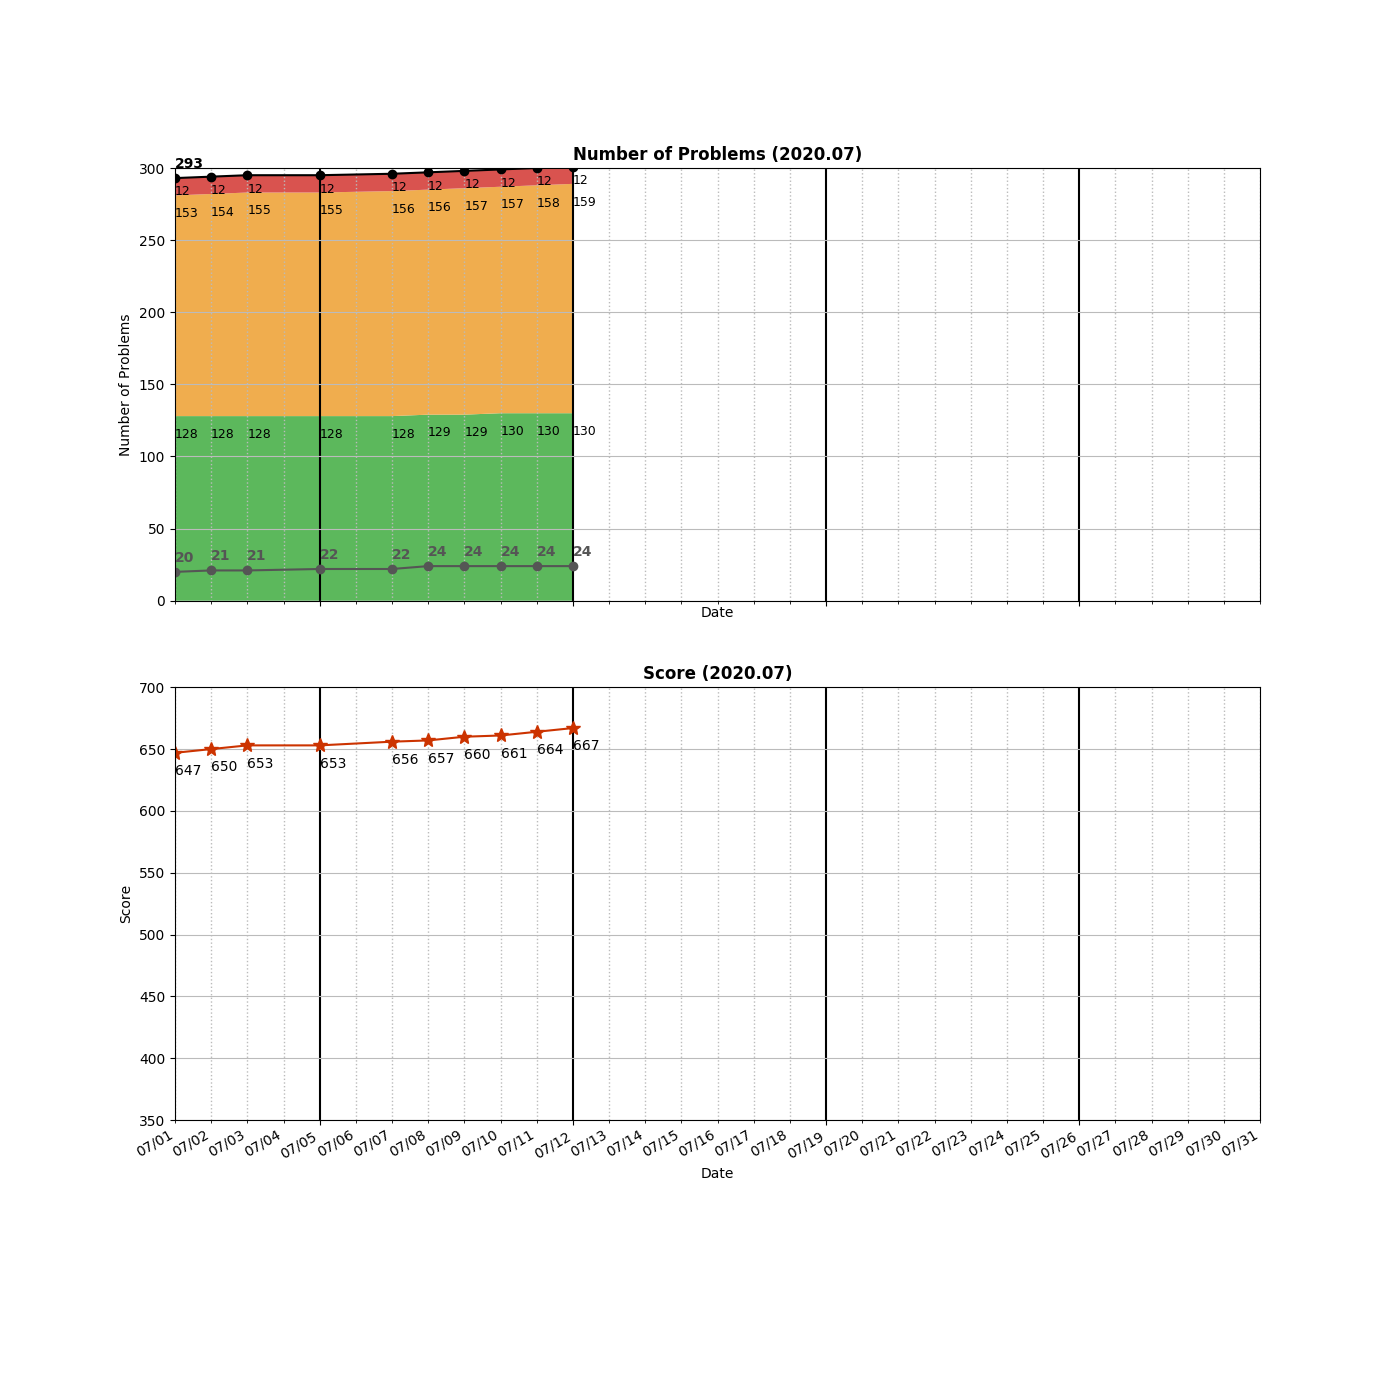
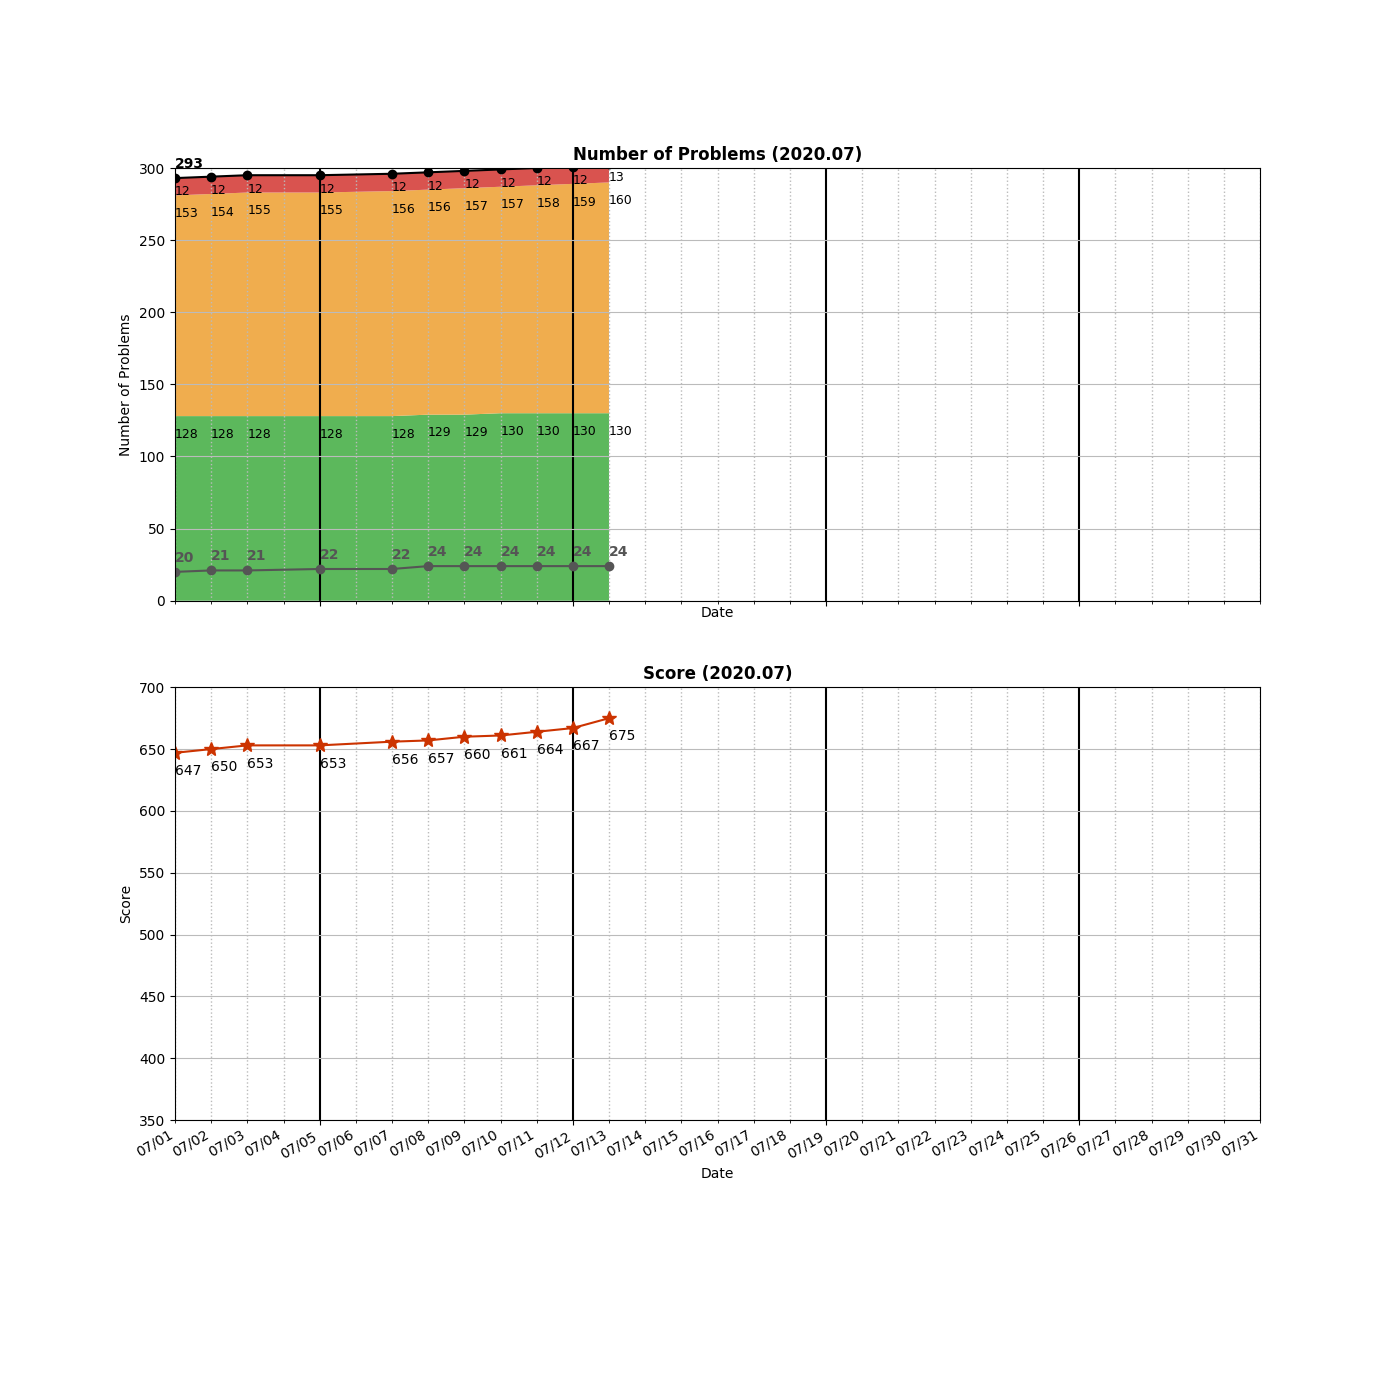
Added _0218_TheSkylineProblem.py

Changed region(s): [[0.3993, 0.1229, 0.4607, 0.43]]

diff --git a/algo/hard/_0218_TheSkylineProblem.py b/algo/hard/_0218_TheSkylineProblem.py
@@ -1,0 +1,126 @@
+import functools 
+class Solution:
+        
+    # Reference:    
+    # https://www.youtube.com/watch?v=GSBLe8cKu0s
+
+    # Cases: 
+    # [[1,3,3],[2,4,4],[5,8,2],[6,7,4],[8,9,4]]  
+    # [[6,7,2],[7,8,3]]
+    # [[0,2,3],[2,5,3]]  //failed
+
+    # Define comparator, calculate the max and pre-max [10%]
+    def getSkyline(self, buildings: List[List[int]]) -> List[List[int]]:
+        print("Mine")
+        
+        if not buildings:
+            return []
+        
+        points = []
+        ans = []
+        
+        # Loop the buildings and create the point list (double of buildings)
+        for b in buildings:
+            point = [b[0], b[2], 1] #start
+            points.append(point)
+            point = [b[1], b[2], 0] #end
+            points.append(point)
+        
+        # Comparator-1 (ok) 
+        def sortedBy1(a, b):                
+            if a[0] != b[0]:          #different x
+                return a[0] - b[0]    #asc 
+            if a[2] == 1 and b[2] == 1:   #both start
+                return b[1] - a[1]        #dsc
+            if a[2] == 0 and b[2] == 0:       #both end
+                return a[1] - b[1]            #asc
+            if b[2] == 1:                         #start and end
+                return 1                          #"end" goes first
+            else:
+                return -1
+        
+        # Comparator-2 (ok) 
+        def sortedBy2(a, b):
+            if a[0] != b[0]:
+                return a[0] - b[0]
+            else:
+                p, q = 0, 0
+                if a[2] == 1:
+                    p = -a[1] 
+                else:
+                    p = a[1]
+        
+                if b[2] == 1:
+                    q = -b[1]
+                else:
+                    q = b[1]
+                return p - q
+        
+        # We need to use the functools (in Python3) to define a full comparator (not just lambda)
+        cmp = functools.cmp_to_key(sortedBy1)
+        points.sort(key = cmp)
+        print("Points:", points)
+        print()
+        
+        # Method-1: Use an queue to store the count of max (ok)
+        # Queue stores the mapping between 
+        queue = {}
+        queue[0] = 1 #put a dummy node [0, 1] meaning 1 height=0 inside
+        prevMax = 0 
+        
+        # Loop the points 
+        # If it is start point, if y is in queue, add by 1, 
+        #                       if y is not in queue, set it to 1
+        # If it is end point, if there is more than 1 y, deduct by 1
+        #                     if only 1 y, remove it (impossible to have no y since it's an end point)
+        
+        for p in points:
+            x, y = p[0], p[1]
+            
+            if p[2] == 1: #start
+                if y in queue:
+                    queue[y] += 1
+                else:
+                    queue[y] = 1
+                    
+            else:         #end 
+                if queue[y] > 1:
+                    queue[y] -= 1
+                else:
+                    del queue[y]
+ 
+            #If the current max differs from the prev max, then add the point into ans
+            currMax = max(queue.keys())  # O(n)
+            if prevMax != currMax:
+                ans.append([x, currMax])
+                prevMax = currMax
+            
+        # Method-2: Use an array to store the max (wrong)
+#         for p in points:
+#             print(p, maxHeights)
+#             if p[2] == 1:  #start
+                
+#                 location = len(maxHeights)
+#                 for i in range(len(maxHeights)):
+#                     if p[1] < maxHeights[i]:
+#                         location = i
+#                         break
+#                 if p[1] not in maxHeights:
+#                     maxHeights.insert(location, p[1])
+                    
+#                 maxHeight = maxHeights[-1]
+#                 if p[1] == maxHeight:
+#                     ans.append([p[0], p[1]])
+#             else:
+#                 if p[1] in maxHeights:
+#                     maxHeights.remove(p[1])
+                    
+#                 maxHeight = maxHeights[-1] 
+#                 if p[1] >= maxHeight:
+#                     ans.append([p[0], maxHeight])        
+#             print("Ans:", ans)
+#             print()
+
+        return ans
+            
+            

diff --git a/README.md b/README.md
@@ -107,6 +107,7 @@ algo
 │   ├── _0690_EmployeeImportance.py
 │   ├── _0784_LetterCasePermutation.py
 │   ├── _0841_KeysAndRooms.py
+│   ├── _1020_NumberOfEnclaves.py
 │   ├── _1079_LetterTilePossibilities.py
 │   ├── _1254_NumberOfClosedIslands.py
 │   └── _1391_CheckIfThereIsAValidPathInAGrid.py
@@ -144,6 +145,8 @@ algo
 │   └── _0724_FindPivotIndex.py
 ├── greedy
 │   └── _0621_TaskScheduler.py
+├── hard
+│   └── _0218_TheSkylineProblem.py
 ├── hashmap
 │   ├── _0049_GroupAnagrams.py
 │   ├── _0146_LRUCache.py
@@ -325,7 +328,7 @@ algo
     ├── _0127_WordLadder_TLE.py
     └── _0127_WordLadder_wrong.py
 
-25 directories, 299 files
+26 directories, 301 files
 
 =====================================
 ============= Local Repo ============
@@ -460,6 +463,7 @@ _0213_HouseRobber2.py
 _0215_KthLargestElementInAnArray.py
 _0216_CombinationSum3.py
 _0217_ContainsDuplicate.py
+_0218_TheSkylineProblem.py
 _0219_ContainsDuplicate2.py
 _0221_MaximalSquare.py
 _0222_CountCompleteTreeNodes.py
@@ -611,6 +615,7 @@ _0981_TimeBasedKey-ValueStore.py
 _0994_RottingOranges.py
 _1002_FindCommonCharacters.py
 _1019_NextGreaterNodeInLinkedList.py
+_1020_NumberOfEnclaves.py
 _1022_SumOfRootToLeafBinaryNumbers.py
 _1046_LastStoneWeight.py
 _1048_LongestStringChain.py
@@ -629,7 +634,7 @@ _1358_NumberOfSubstringsContainingAllThreeCharacters.py
 _1391_CheckIfThereIsAValidPathInAGrid.py
 _1427_PerformStringShifts.py
 =====================================
-Num of Python Practice:  298
+Num of Python Practice:  300
 
 
 =====================================
@@ -764,6 +769,7 @@ Num of Python Practice:  298
  0215 Kth Largest Element in an Array
  0216 Combination Sum III
  0217 Contains Duplicate
+ 0218 The Skyline Problem
  0219 Contains Duplicate II
  0221 Maximal Square
  0222 Count Complete Tree Nodes
@@ -918,6 +924,7 @@ Num of Python Practice:  298
  0994 Rotting Oranges
  1002 Find Common Characters
  1019 Next Greater Node In Linked List
+ 1020 Number of Enclaves
  1022 Sum of Root To Leaf Binary Numbers
  1046 Last Stone Weight
  1048 Longest String Chain
@@ -938,10 +945,10 @@ Num of Python Practice:  298
  1427 Perform String Shifts
 =====================================
 Solved / Total (Easy)  :  130 /  424
-Solved / Total (Medium):  159 /  774
-Solved / Total (Hard)  :   12 /  317
-Solved / Total (All)   :  301 / 1515
-Total Score            :  667
+Solved / Total (Medium):  160 /  774
+Solved / Total (Hard)  :   13 /  317
+Solved / Total (All)   :  303 / 1515
+Total Score            :  675
 =====================================
 
 ```
